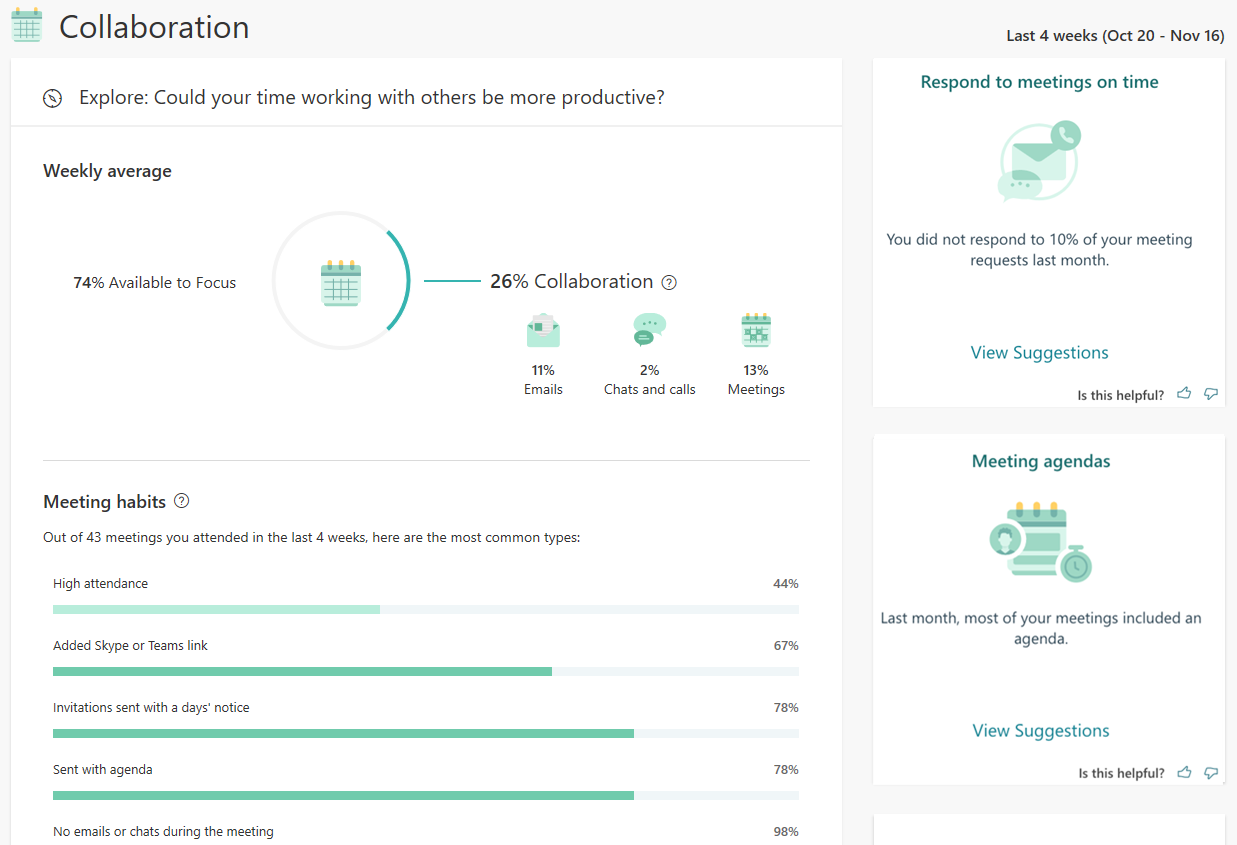
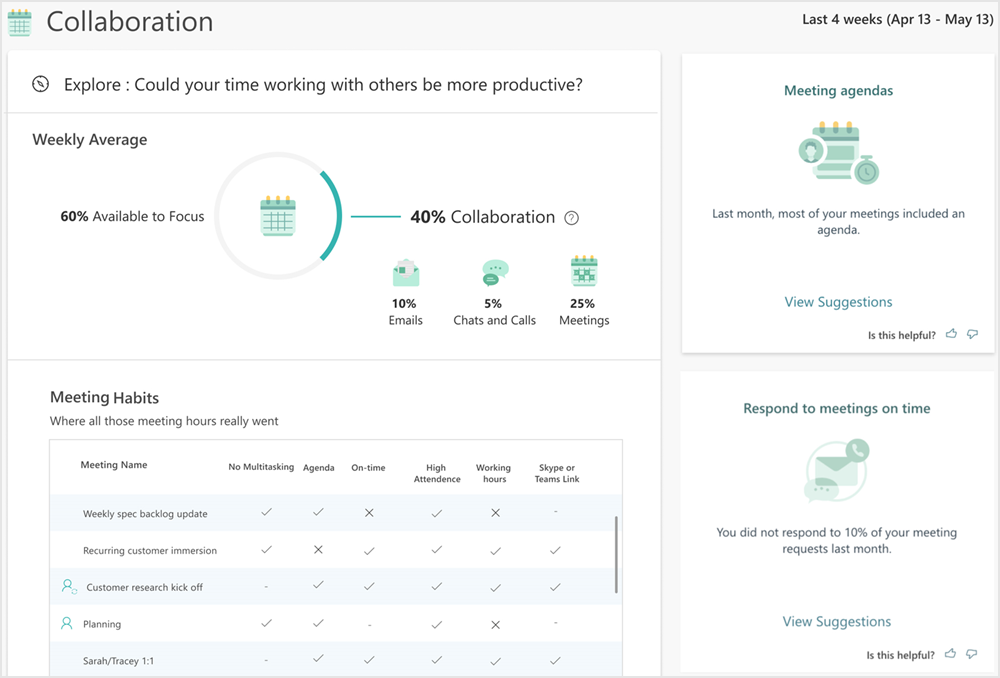
MyA Collab edits
per new screenshots from dev

diff --git a/WorkplaceAnalytics/MyAnalytics/Use/collaboration.md b/WorkplaceAnalytics/MyAnalytics/Use/collaboration.md
@@ -18,23 +18,23 @@ Collaboration in MyAnalytics shows how effectively you are with your meetings an
 
   ![MyAnalytics Collaboration page](../../Images/mya/use/collab.png)
 
-## Weekly average
+## Weekly Average
 
-The Weekly average section shows an estimate of how much time you spent in meetings, email, chats, and calls in the past four weeks. It's measured as a percentage of your work week, which is based on activity within your set working hours ([Outlook settings](https://outlook.office.com/calendar/options/calendar/view/appearance)).
+The Weekly Average section shows an estimate of how much time you spent in meetings, email, chats, and calls in the past four weeks. It's measured as a percentage of your work week, which is based on activity within your set working hours ([Outlook settings](https://outlook.office.com/calendar/options/calendar/view/appearance)).
 
-  ![MyAnalytics Collaboration weekly average](../../Images/mya/use/collab-weekly-average.png)
+   ![MyAnalytics Collaboration Weekly Average](../../Images/mya/use/collab-weekly-average.png)
 
-## Meeting habits
+## Meeting Habits
 
 The Meeting habits section highlights what your habits or practices are in meetings you organized and accepted. You can switch between the Habits view and the Meetings view:
 
 * The **Habits** view shows data about your meeting habits based on the meetings on your calendar over the past four weeks. It helps you understand the number of times each of these meeting types occur out of the total number of meetings you organized or accepted to attend.
 
-    ![MyAnalytics Collaboration Meeting habits](../../Images/mya/use/collab-habits.png)
+    ![MyAnalytics Collaboration Meeting Habits View](../../Images/mya/use/collab-habits.png)
 
-* The **Meetings** view shows more details about all the meetings on your calendar over the past four weeks.
+* The **List View** shows details about all the meetings on your calendar over the past four weeks.
 
-    ![MyAnalytics Collaboration Meeting details](../../Images/mya/use/collab-meetings2.png)
+    ![MyAnalytics Collaboration Meeting List View](../../Images/mya/use/collab-meeting-list.png)
 
    |Icon |Description |
    |---|---|
@@ -48,15 +48,15 @@ The Meeting habits section highlights what your habits or practices are in meeti
 
 For a list of meetings that are excluded from the Meetings list and metrics, see [Meeting exclusions](#meeting-exclusions).
 
-## Communication habits
+## Communication Habits
 
-The Communication habits section shows the total number of chats (instant messages) and emails sent and read during each hour of the day in the past four weeks.
+The Communication Habits section shows the total number of chats (instant messages) and emails sent and read during each hour of the day in the past four weeks.
 
-   ![MyAnalytics Communication habits](../../Images/mya/use/collab-com-chart.png)
+   ![MyAnalytics Communication habits](../../Images/mya/use/collab-comm-habits.png)
 
 ## Productivity insights
 
-These are based on your recent collaboration activity at work. Select **View Suggestions** to get ideas about how you might change or improve your current collaboration patterns.
+The insights are based on your recent collaboration activity at work. Select **View Suggestions** to get ideas about how you might change your current collaboration patterns.
 
 ## About the metrics
 
@@ -108,8 +108,9 @@ Also, the time you spend sending or reading email outside your set work hours (a
 
 MyAnalytics counts your audio calls, video calls, and chats (instant messages) that occur in Teams and in Skype for Business as collaboration activities, which are calculated as follows:
 
-* Each chat or instant message that *you send* counts as 30 seconds.
-* Each chat that *you receive* counts as zero seconds because empirically, time spent on sent messages is a good predictor of the total duration of Teams and Skype for Business sessions.
+* Each chat or instant message that *you send* counts the time as 30 seconds.
+* Each chat that *you receive* counts as zero seconds in time because empirically, time spent on sent messages is a good predictor of the total duration of Teams and Skype for Business sessions.
+* Each chat or instant message within a 15-minute window of time is counted as one chat.
 * For each impromptu call, MyAnalytics uses the actual duration of the call. An impromptu or ad hoc call is an unscheduled call that’s not included in your calendar.
 * For calls that are scheduled as meetings in your calendar, the time counts as zero seconds because these calls are already being counted as meeting time.
 
